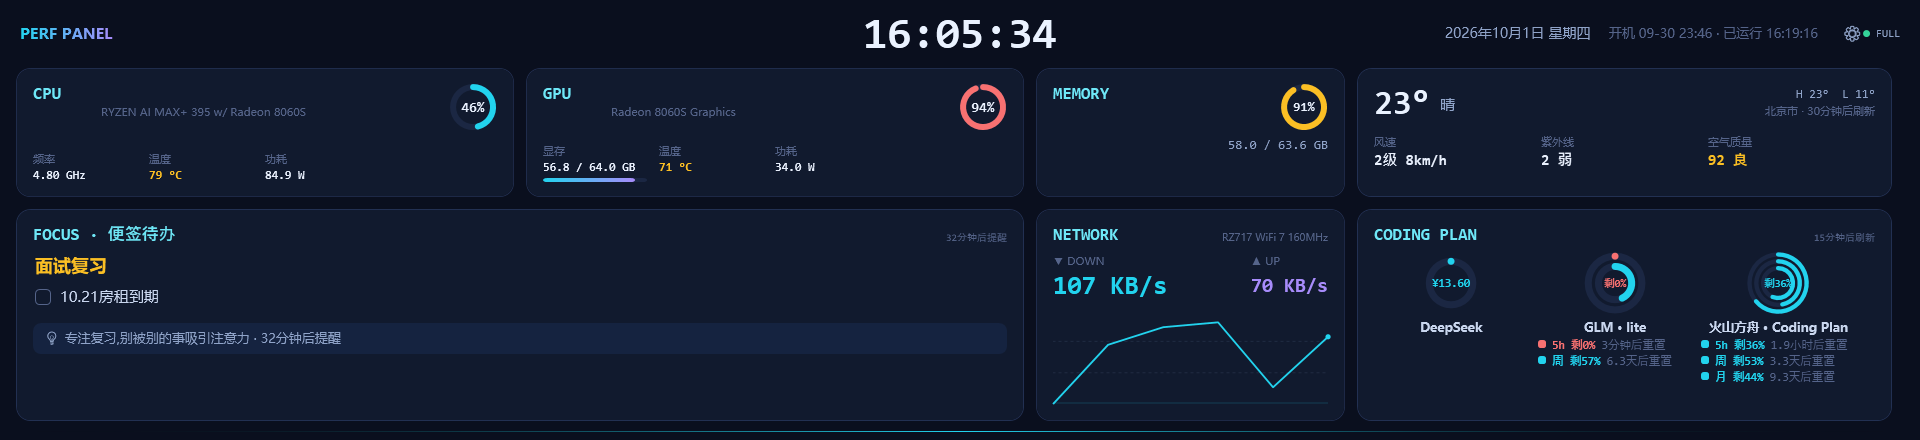
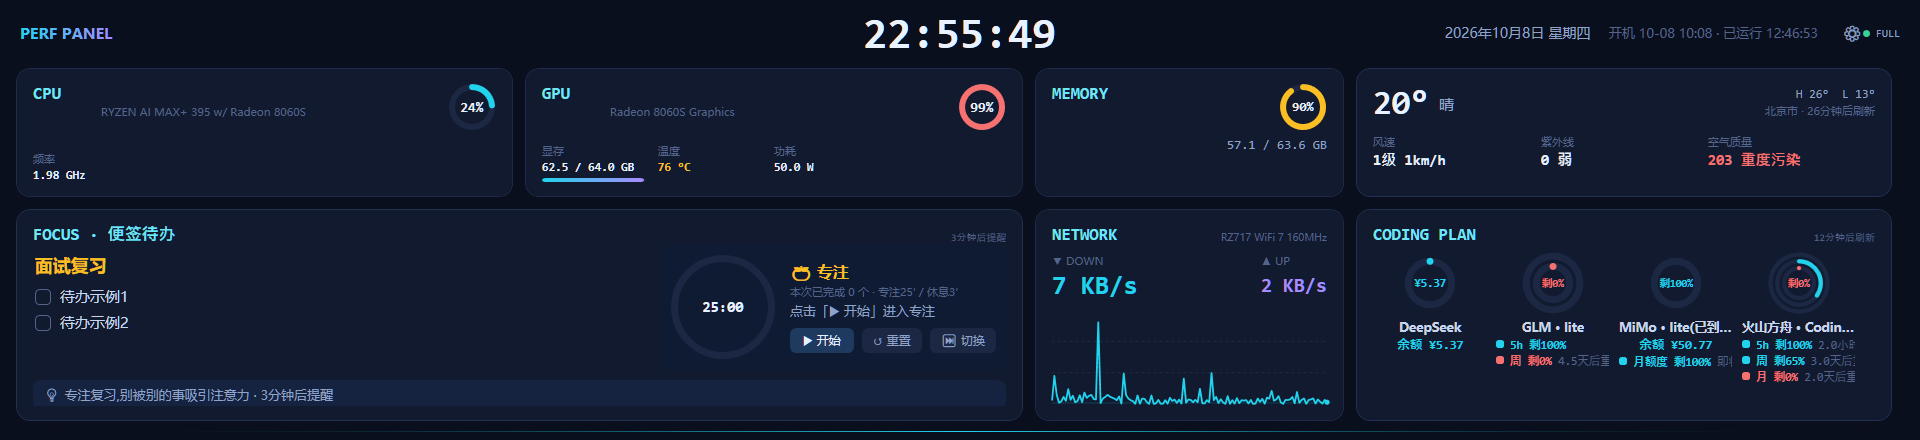
feat: 设置窗口默认尺寸 560×760→660×900(2K 屏一屏放全,Tab 内容不再滚动);Tab 标签加大加深(14px/内边距16,选中亮蓝底青字,与窗口底色拉开对比);docs: 更新 README 效果图(1920×440 实机面板截图,便签待办+番茄钟+四家额度环)

diff --git a/src/PerfPanel/SettingsWindow.xaml b/src/PerfPanel/SettingsWindow.xaml
@@ -1,7 +1,7 @@
 <Window x:Class="PerfPanel.SettingsWindow"
         xmlns="http://schemas.microsoft.com/winfx/2006/xaml/presentation"
         xmlns:x="http://schemas.microsoft.com/winfx/2006/xaml"
-        Title="PerfPanel 设置" Width="560" Height="760"
+        Title="PerfPanel 设置" Width="660" Height="900"
         WindowStartupLocation="CenterScreen" ResizeMode="NoResize"
         Background="#0A0F1E" FontFamily="Microsoft YaHei UI" Topmost="True">
 
@@ -42,25 +42,25 @@
             <Setter Property="Foreground" Value="#8FA3C8"/>
         </Style>
 
-        <!-- 深色分页标签 -->
+        <!-- 深色分页标签:选中项亮底+青字,与窗口底色拉开对比 -->
         <Style x:Key="DarkTabItem" TargetType="TabItem">
             <Setter Property="Foreground" Value="#8FA3C8"/>
-            <Setter Property="FontSize" Value="13"/>
+            <Setter Property="FontSize" Value="14"/>
             <Setter Property="Cursor" Value="Hand"/>
             <Setter Property="Template">
                 <Setter.Value>
                     <ControlTemplate TargetType="TabItem">
-                        <Border x:Name="bd" Background="#111A2E" CornerRadius="7,7,0,0"
-                                Padding="13,8" Margin="0,0,3,0">
+                        <Border x:Name="bd" Background="#152038" CornerRadius="8,8,0,0"
+                                Padding="16,10" Margin="0,0,4,0">
                             <ContentPresenter ContentSource="Header" HorizontalAlignment="Center" VerticalAlignment="Center"/>
                         </Border>
                         <ControlTemplate.Triggers>
                             <Trigger Property="IsMouseOver" Value="True">
-                                <Setter TargetName="bd" Property="Background" Value="#16233F"/>
+                                <Setter TargetName="bd" Property="Background" Value="#1E3A5F"/>
                                 <Setter Property="Foreground" Value="#C9D6EE"/>
                             </Trigger>
                             <Trigger Property="IsSelected" Value="True">
-                                <Setter TargetName="bd" Property="Background" Value="#1B2743"/>
+                                <Setter TargetName="bd" Property="Background" Value="#1E3A5F"/>
                                 <Setter Property="Foreground" Value="#22D3EE"/>
                             </Trigger>
                         </ControlTemplate.Triggers>
